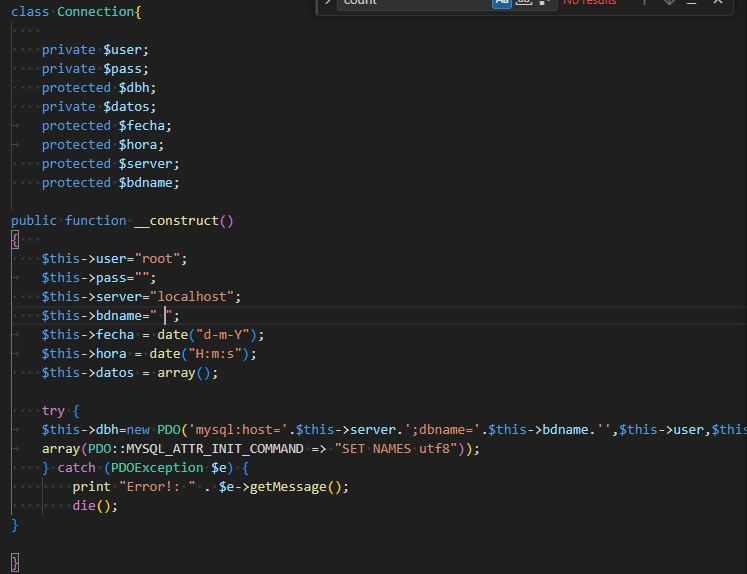
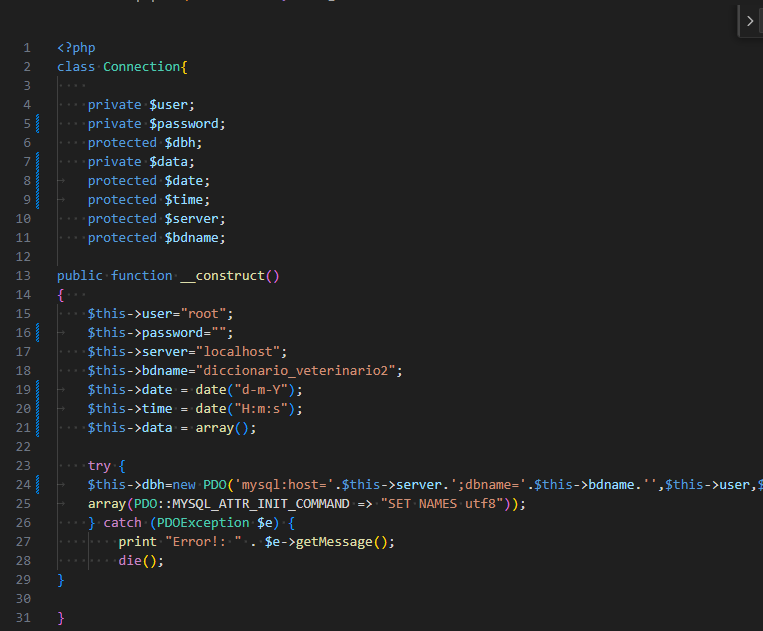
fixed connection variables

diff --git a/class/connection.php b/class/connection.php
@@ -2,26 +2,26 @@
 class Connection{
     
     private $user;
-    private $pass;
+    private $password;
     protected $dbh;
-    private $datos;
-	protected $fecha;
-	protected $hora;
+    private $data;
+	protected $date;
+	protected $time;
     protected $server;
     protected $bdname;
 
 public function __construct()
 {   
     $this->user="root";
-	$this->pass="";
+	$this->password="";
     $this->server="localhost";
     $this->bdname="diccionario_veterinario2";
-	$this->fecha = date("d-m-Y");
-	$this->hora = date("H:m:s");
-    $this->datos = array();
+	$this->date = date("d-m-Y");
+	$this->time = date("H:m:s");
+    $this->data = array();
 
     try {
-	$this->dbh=new PDO('mysql:host='.$this->server.';dbname='.$this->bdname.'',$this->user,$this->pass,
+	$this->dbh=new PDO('mysql:host='.$this->server.';dbname='.$this->bdname.'',$this->user,$this->password,
 	array(PDO::MYSQL_ATTR_INIT_COMMAND => "SET NAMES utf8"));
     } catch (PDOException $e) {
         print "Error!: " . $e->getMessage();
@@ -30,17 +30,17 @@ public function __construct()
 
 }
 
-public function Select_datos($sql){
+public function Select_data($sql){
 
 	$smtp=$this->dbh->prepare($sql);
 	$smtp->execute();
 
 	while ($row=$smtp->fetch()){
 		
-		$this->datos[]=$row;
+		$this->data[]=$row;
 		
 		}
-		return $this->datos;
+		return $this->data;
 	}
 
 public function Select_all_2(){

diff --git a/class/words.php b/class/words.php
@@ -69,7 +69,7 @@ class Word{
         // Conexión a la base de datos
         $select = new Connection();
         // Obtener datos de la base de datos
-        $dat = $select->Select_datos($sql);
+        $dat = $select->Select_data($sql);
         if (!empty($dat)) {
             // Recorrer los datos y agregarlos al documento
             for($li=0;$li<sizeof($dat);$li++){
